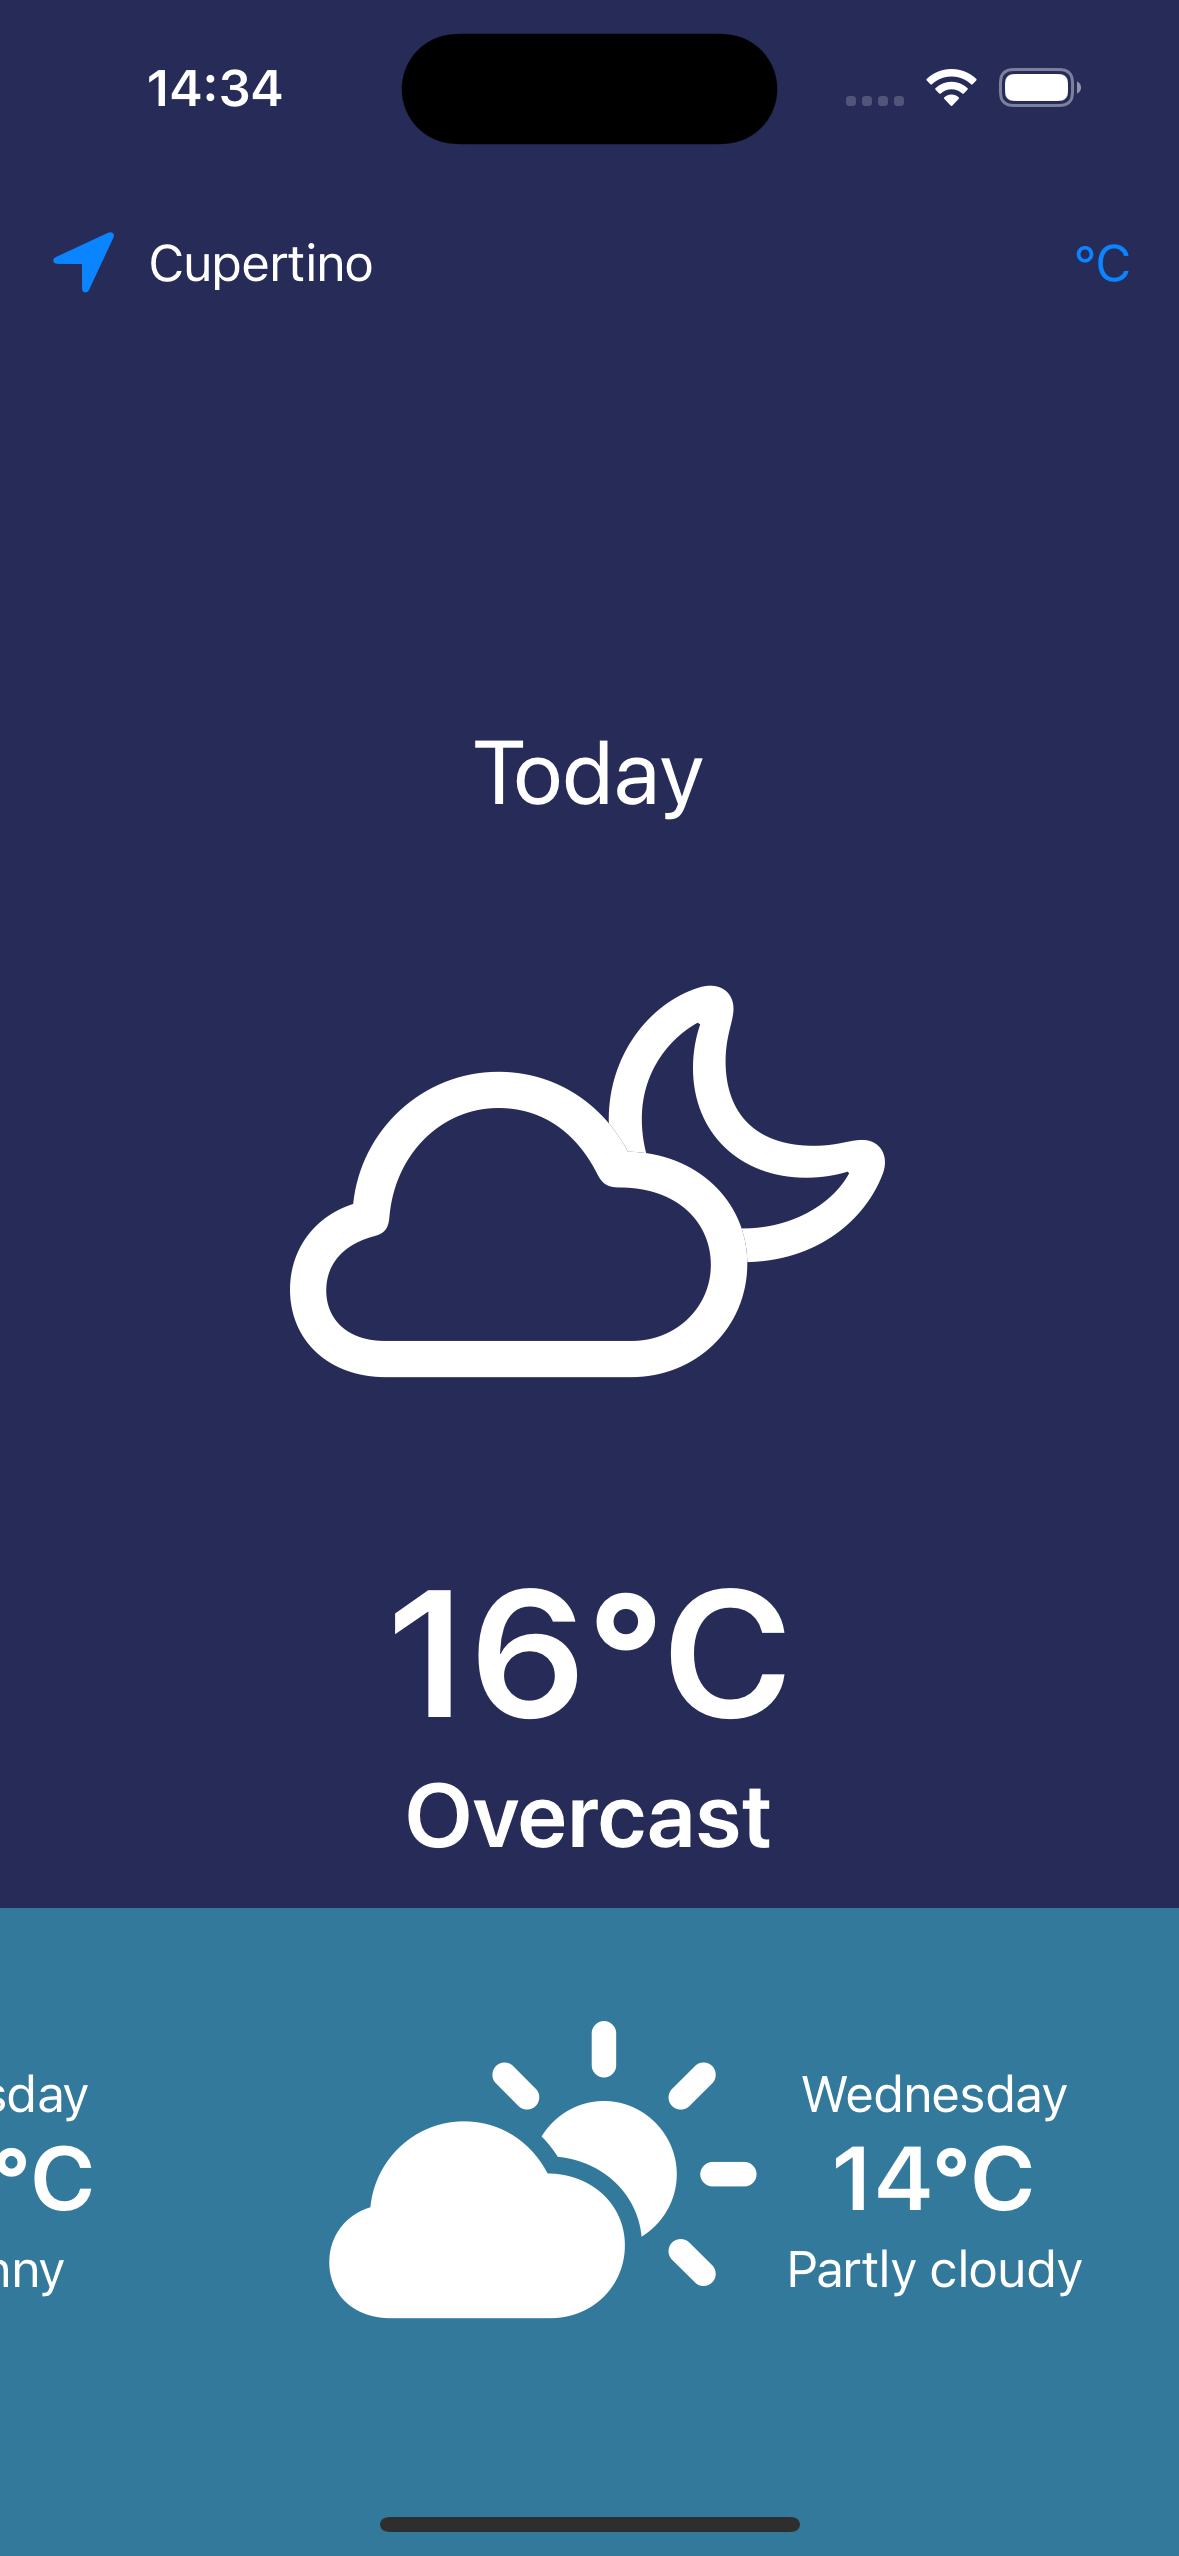
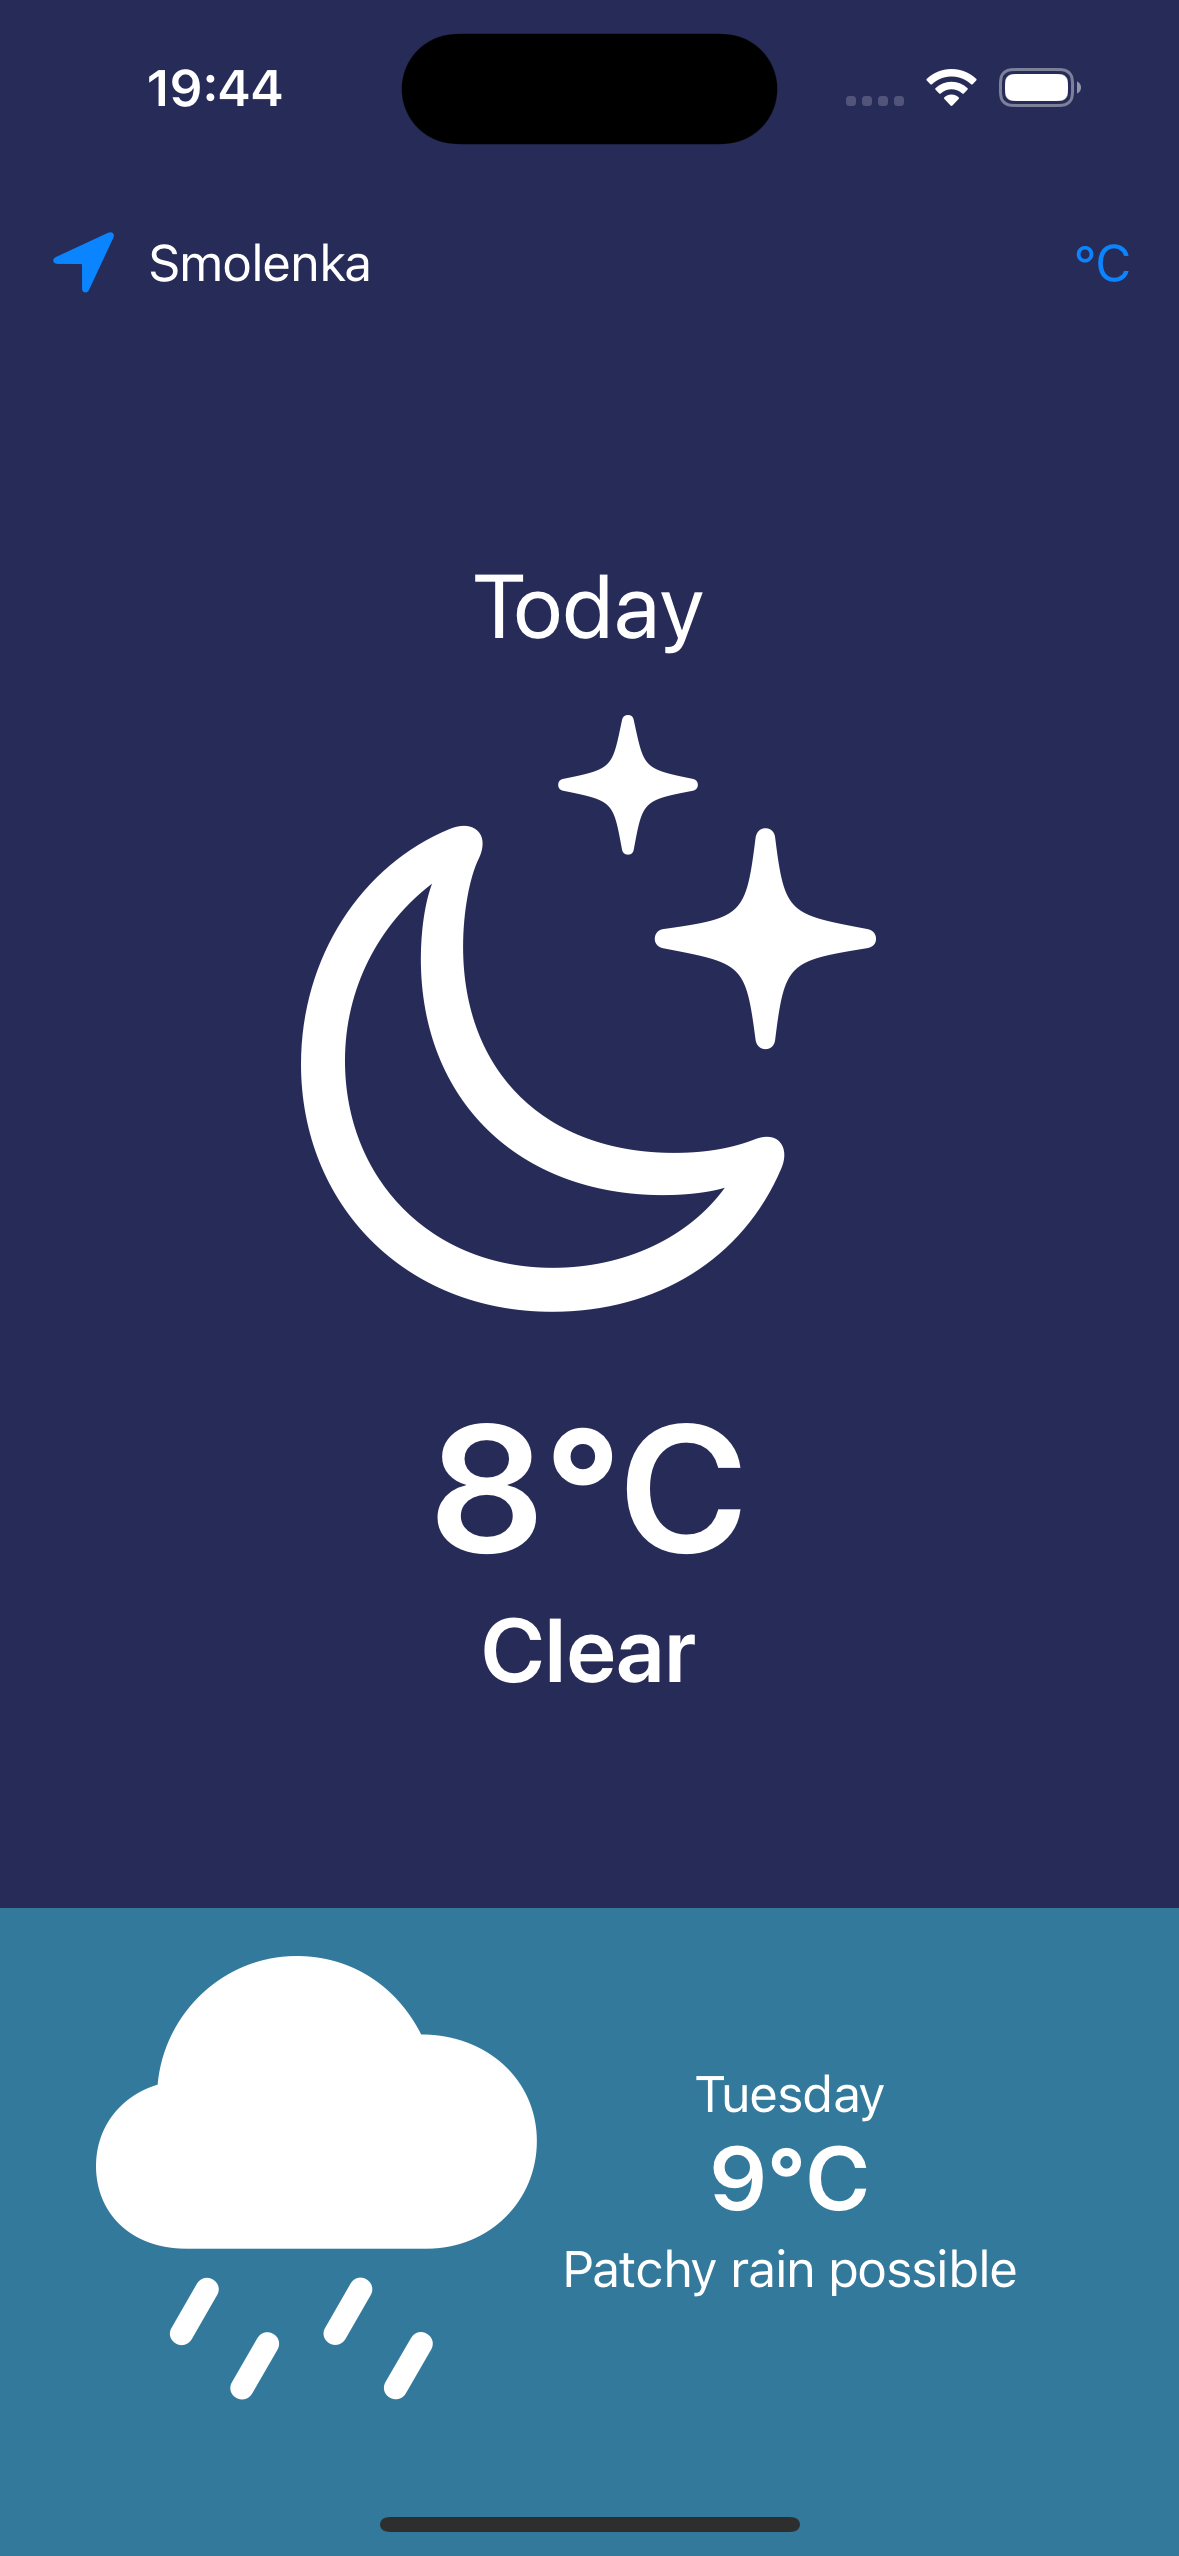
improve views arrangement

diff --git a/myWeatherForecast/Views/ContentView.swift b/myWeatherForecast/Views/ContentView.swift
@@ -51,6 +51,8 @@ struct ContentView: View {
                         
                         WeatherView(weatherConditions: weatherConditions,iconList: iconList, weather: weather, isCelcius: isCelcius, isDay: isDay)
                         
+                        Spacer()
+
                         ForecastView(weatherConditions: weatherConditions,iconList: iconList, weather: weather, isCelcius: isCelcius, isDay: isDay)
                         
                     } else {
